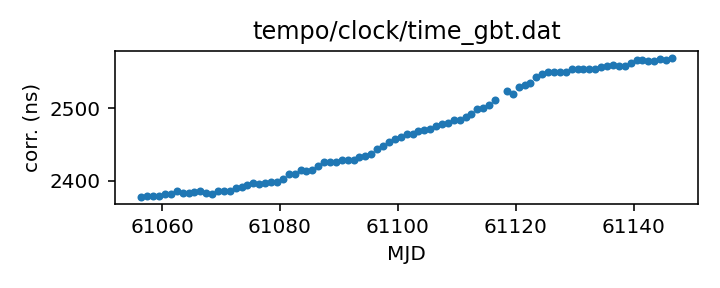
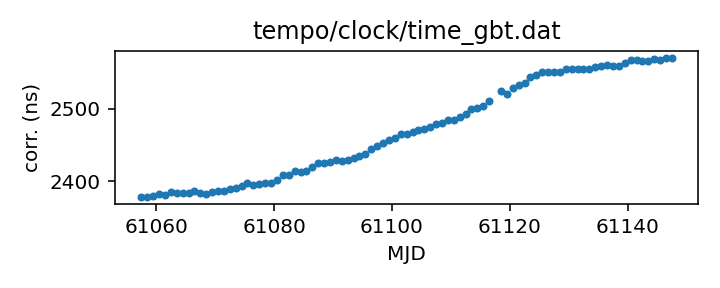
Routine gh-pages update from Github action Sat Apr 18 21:02:26 UTC 2026

diff --git a/status.md b/status.md
@@ -13,18 +13,18 @@ name of each clock file links to a page with more details.
 
 | Name | File | Corrections start | Corrections end | Last check date | Last check result 
 |:--- |:--- | --- | --- | --- |:--- 
-| [GPS to UTC](T2runtime/clock/gps2utc.clk.html) | `T2runtime/clock/gps2utc.clk` | 1993-01-01 MJD 48988.0 | 2026-03-30 MJD 61129.0 | 2026-04-17 | Unchanged 
-| [GPS to UTC (Combined Clock)](T2runtime/clock/gps2utc_cc.clk.html) | `T2runtime/clock/gps2utc_cc.clk` | 1993-01-01 MJD 48988.0 | 2026-03-30 MJD 61129.0 | 2026-04-17 | Unchanged 
-| [GPS to UTC (Corrected)](T2runtime/clock/gps2utc_c0p.clk.html) | `T2runtime/clock/gps2utc_c0p.clk` | 2010-12-29 MJD 55559.0 | 2026-03-30 MJD 61129.0 | 2026-04-17 | Unchanged 
-| [GBT](tempo/clock/time_gbt.dat.html) | `tempo/clock/time_gbt.dat` | 2000-12-31 MJD 51909.5 | 2026-04-16 MJD 61146.5 | 2026-04-17 | Updated 
-| [GBT (TEMPO2 converted from TEMPO)](T2runtime/clock/gbt2gps.clk.html) | `T2runtime/clock/gbt2gps.clk` | 2000-12-31 MJD 51909.5 | 2024-05-18 MJD 60448.5 | 2026-04-17 | **Validation failed** 
+| [GPS to UTC](T2runtime/clock/gps2utc.clk.html) | `T2runtime/clock/gps2utc.clk` | 1993-01-01 MJD 48988.0 | 2026-03-30 MJD 61129.0 | 2026-04-18 | Unchanged 
+| [GPS to UTC (Combined Clock)](T2runtime/clock/gps2utc_cc.clk.html) | `T2runtime/clock/gps2utc_cc.clk` | 1993-01-01 MJD 48988.0 | 2026-03-30 MJD 61129.0 | 2026-04-18 | Unchanged 
+| [GPS to UTC (Corrected)](T2runtime/clock/gps2utc_c0p.clk.html) | `T2runtime/clock/gps2utc_c0p.clk` | 2010-12-29 MJD 55559.0 | 2026-03-30 MJD 61129.0 | 2026-04-18 | Unchanged 
+| [GBT](tempo/clock/time_gbt.dat.html) | `tempo/clock/time_gbt.dat` | 2000-12-31 MJD 51909.5 | 2026-04-17 MJD 61147.5 | 2026-04-18 | Updated 
+| [GBT (TEMPO2 converted from TEMPO)](T2runtime/clock/gbt2gps.clk.html) | `T2runtime/clock/gbt2gps.clk` | 2000-12-31 MJD 51909.5 | 2024-05-18 MJD 60448.5 | 2026-04-18 | **Validation failed** 
 | [Jodrell Bank](T2runtime/clock/jb2gps.clk.html) | `T2runtime/clock/jb2gps.clk` | 2006-10-13 MJD 54021.4 | 2025-11-28 MJD 61007.0 | 2026-04-13 | Unchanged 
 | [Jodrell Bank Roach](T2runtime/clock/jbroach2jb.clk.html) | `T2runtime/clock/jbroach2jb.clk` | 2006-10-13 MJD 54021.4 | 2018-03-20 MJD 58197.6 | 2026-04-17 | Unchanged 
 | [Jodrell Bank DFB](T2runtime/clock/jbdfb2jb.clk.html) | `T2runtime/clock/jbdfb2jb.clk` | 2006-10-13 MJD 54021.4 | 2021-02-22 MJD 59268.0 | 2026-04-17 | Unchanged 
 | [Meerkat (observatory)](T2runtime/clock/mk2utc_observatory.clk.html) | `T2runtime/clock/mk2utc_observatory.clk` | 2019-01-01 MJD 58484.0 | 2026-04-10 MJD 61141.0 | 2026-04-17 | Updated 
-| [Leap seconds](tempo/clock/leap.sec.html) | `tempo/clock/leap.sec` | 1972-07-01 MJD 41499.0 | 2017-01-01 MJD 57754.0 | 2026-04-17 | Unchanged 
-| [UT1 table](tempo/clock/ut1.dat.html) | `tempo/clock/ut1.dat` | 1973-01-02 MJD 41684.0 | 2027-04-24 MJD 61519.0 | 2026-04-17 | Unchanged 
-| [UT1 table](T2runtime/clock/ut1.dat.html) | `T2runtime/clock/ut1.dat` | 1973-01-02 MJD 41684.0 | 2027-04-24 MJD 61519.0 | 2026-04-17 | Unchanged 
+| [Leap seconds](tempo/clock/leap.sec.html) | `tempo/clock/leap.sec` | 1972-07-01 MJD 41499.0 | 2017-01-01 MJD 57754.0 | 2026-04-18 | Unchanged 
+| [UT1 table](tempo/clock/ut1.dat.html) | `tempo/clock/ut1.dat` | 1973-01-02 MJD 41684.0 | 2027-04-24 MJD 61519.0 | 2026-04-18 | Unchanged 
+| [UT1 table](T2runtime/clock/ut1.dat.html) | `T2runtime/clock/ut1.dat` | 1973-01-02 MJD 41684.0 | 2027-04-24 MJD 61519.0 | 2026-04-18 | Unchanged 
 
 
 

diff --git a/T2runtime/clock/gbt2gps.clk.md b/T2runtime/clock/gbt2gps.clk.md
@@ -25,12 +25,11 @@ If questions arise about the conversion, contact Anne Archibald
 | Clock file start | 2000-12-31 MJD 51909.5 |
 | Clock file end | 2024-05-18 MJD 60448.5 |
 | Update interval (days) | 1 |
-| Last update attempt | 2026-04-17 |
+| Last update attempt | 2026-04-18 |
 | Last update result | Validation failed |
 
 Log entries from the last few update attempts:
 ```
-2026-04-08 21:09:12.047 - Validation failed: New version of T2runtime/clock/gbt2gps.clk clock corrections differ from old version where they overlap in 11 places
 2026-04-09 21:09:37.006 - Validation failed: New version of T2runtime/clock/gbt2gps.clk clock corrections differ from old version where they overlap in 11 places
 2026-04-10 21:02:50.322 - Validation failed: New version of T2runtime/clock/gbt2gps.clk clock corrections differ from old version where they overlap in 11 places
 2026-04-11 20:58:11.156 - Validation failed: New version of T2runtime/clock/gbt2gps.clk clock corrections differ from old version where they overlap in 11 places
@@ -40,6 +39,7 @@ Log entries from the last few update attempts:
 2026-04-15 21:13:51.623 - Validation failed: New version of T2runtime/clock/gbt2gps.clk clock corrections differ from old version where they overlap in 11 places
 2026-04-16 21:10:18.745 - Validation failed: New version of T2runtime/clock/gbt2gps.clk clock corrections differ from old version where they overlap in 11 places
 2026-04-17 21:10:21.965 - Validation failed: New version of T2runtime/clock/gbt2gps.clk clock corrections differ from old version where they overlap in 11 places
+2026-04-18 21:02:03.507 - Validation failed: New version of T2runtime/clock/gbt2gps.clk clock corrections differ from old version where they overlap in 11 places
 ```
 [Full log](https://raw.githubusercontent.com/ipta/pulsar-clock-corrections/main/log/T2runtime/clock/gbt2gps.clk.log)
 

diff --git a/tempo/clock/time_gbt.dat.md b/tempo/clock/time_gbt.dat.md
@@ -36,14 +36,13 @@ If questions arise, contact Ryan S. Lynch <rlynch@nrao.edu>.
 | Format | tempo |
 | Bogus last correction | False |
 | Clock file start | 2000-12-31 MJD 51909.5 |
-| Clock file end | 2026-04-16 MJD 61146.5 |
+| Clock file end | 2026-04-17 MJD 61147.5 |
 | Update interval (days) | 1 |
-| Last update attempt | 2026-04-17 |
+| Last update attempt | 2026-04-18 |
 | Last update result | Updated |
 
 Log entries from the last few update attempts:
 ```
-2026-04-08 21:09:11.973 - Updated
 2026-04-09 21:09:36.941 - Updated
 2026-04-10 21:02:49.960 - Updated
 2026-04-11 20:58:11.090 - Updated
@@ -53,6 +52,7 @@ Log entries from the last few update attempts:
 2026-04-15 21:13:51.548 - Updated
 2026-04-16 21:10:18.680 - Updated
 2026-04-17 21:10:21.347 - Updated
+2026-04-18 21:02:03.430 - Updated
 ```
 [Full log](https://raw.githubusercontent.com/ipta/pulsar-clock-corrections/main/log/tempo/clock/time_gbt.dat.log)
 

diff --git a/T2runtime/clock/gps2utc_c0p.clk.md b/T2runtime/clock/gps2utc_c0p.clk.md
@@ -30,12 +30,11 @@ about the BIPM's published corrections, contact <tai@bipm.org>.
 | Clock file start | 2010-12-29 MJD 55559.0 |
 | Clock file end | 2026-03-30 MJD 61129.0 |
 | Update interval (days) | 1 |
-| Last update attempt | 2026-04-17 |
+| Last update attempt | 2026-04-18 |
 | Last update result | Unchanged |
 
 Log entries from the last few update attempts:
 ```
-2026-04-08 21:09:11.089 - Unchanged
 2026-04-09 21:09:36.473 - Unchanged
 2026-04-10 21:02:49.546 - Unchanged
 2026-04-11 20:58:10.641 - Unchanged
@@ -45,6 +44,7 @@ Log entries from the last few update attempts:
 2026-04-15 21:13:50.984 - Unchanged
 2026-04-16 21:10:18.195 - Unchanged
 2026-04-17 21:10:20.417 - Unchanged
+2026-04-18 21:02:02.932 - Unchanged
 ```
 [Full log](https://raw.githubusercontent.com/ipta/pulsar-clock-corrections/main/log/T2runtime/clock/gps2utc_c0p.clk.log)
 

diff --git a/T2runtime/clock/gps2utc_cc.clk.md b/T2runtime/clock/gps2utc_cc.clk.md
@@ -29,12 +29,11 @@ about the BIPM's published corrections, contact <tai@bipm.org>.
 | Clock file start | 1993-01-01 MJD 48988.0 |
 | Clock file end | 2026-03-30 MJD 61129.0 |
 | Update interval (days) | 1 |
-| Last update attempt | 2026-04-17 |
+| Last update attempt | 2026-04-18 |
 | Last update result | Unchanged |
 
 Log entries from the last few update attempts:
 ```
-2026-04-08 21:09:11.081 - Unchanged
 2026-04-09 21:09:36.466 - Unchanged
 2026-04-10 21:02:49.537 - Unchanged
 2026-04-11 20:58:10.634 - Unchanged
@@ -44,6 +43,7 @@ Log entries from the last few update attempts:
 2026-04-15 21:13:50.976 - Unchanged
 2026-04-16 21:10:18.188 - Unchanged
 2026-04-17 21:10:20.409 - Unchanged
+2026-04-18 21:02:02.924 - Unchanged
 ```
 [Full log](https://raw.githubusercontent.com/ipta/pulsar-clock-corrections/main/log/T2runtime/clock/gps2utc_cc.clk.log)
 

diff --git a/T2runtime/clock/gps2utc.clk.md b/T2runtime/clock/gps2utc.clk.md
@@ -32,12 +32,11 @@ about the BIPM's published corrections, contact <tai@bipm.org>.
 | Clock file start | 1993-01-01 MJD 48988.0 |
 | Clock file end | 2026-03-30 MJD 61129.0 |
 | Update interval (days) | 1 |
-| Last update attempt | 2026-04-17 |
+| Last update attempt | 2026-04-18 |
 | Last update result | Unchanged |
 
 Log entries from the last few update attempts:
 ```
-2026-04-08 21:09:11.059 - Unchanged
 2026-04-09 21:09:36.445 - Unchanged
 2026-04-10 21:02:49.515 - Unchanged
 2026-04-11 20:58:10.613 - Unchanged
@@ -47,6 +46,7 @@ Log entries from the last few update attempts:
 2026-04-15 21:13:50.954 - Unchanged
 2026-04-16 21:10:18.167 - Unchanged
 2026-04-17 21:10:20.387 - Unchanged
+2026-04-18 21:02:02.902 - Unchanged
 ```
 [Full log](https://raw.githubusercontent.com/ipta/pulsar-clock-corrections/main/log/T2runtime/clock/gps2utc.clk.log)
 

diff --git a/tempo/clock/leap.sec.md b/tempo/clock/leap.sec.md
@@ -21,12 +21,11 @@ If there are any questions, contact Anne Archibald
 | File start | 1972-07-01 MJD 41499.0 |
 | File end | 2017-01-01 MJD 57754.0 |
 | Update interval (days) | 0 |
-| Last update attempt | 2026-04-17 |
+| Last update attempt | 2026-04-18 |
 | Last update result | Unchanged |
 
 Log entries from the last few update attempts:
 ```
-2026-04-08 21:09:12.070 - Unchanged
 2026-04-09 21:09:37.027 - Unchanged
 2026-04-10 21:03:04.617 - Unchanged
 2026-04-11 20:58:11.177 - Unchanged
@@ -36,5 +35,6 @@ Log entries from the last few update attempts:
 2026-04-15 21:13:51.648 - Unchanged
 2026-04-16 21:10:18.766 - Unchanged
 2026-04-17 21:12:23.853 - Unchanged
+2026-04-18 21:02:03.533 - Unchanged
 ```
 [Full log](https://raw.githubusercontent.com/ipta/pulsar-clock-corrections/main/log/tempo/clock/leap.sec.log)

diff --git a/T2runtime/clock/ut1.dat.md b/T2runtime/clock/ut1.dat.md
@@ -30,12 +30,11 @@ If there are any questions, contact Anne Archibald
 | File start | 1973-01-02 MJD 41684.0 |
 | File end | 2027-04-24 MJD 61519.0 |
 | Update interval (days) | 0 |
-| Last update attempt | 2026-04-17 |
+| Last update attempt | 2026-04-18 |
 | Last update result | Unchanged |
 
 Log entries from the last few update attempts:
 ```
-2026-04-08 21:09:23.168 - Unchanged
 2026-04-09 21:09:44.769 - Updated
 2026-04-10 21:03:12.147 - Unchanged
 2026-04-11 20:58:18.743 - Unchanged
@@ -45,5 +44,6 @@ Log entries from the last few update attempts:
 2026-04-15 21:13:59.589 - Unchanged
 2026-04-16 21:10:26.916 - Updated
 2026-04-17 21:12:35.936 - Unchanged
+2026-04-18 21:02:11.445 - Unchanged
 ```
 [Full log](https://raw.githubusercontent.com/ipta/pulsar-clock-corrections/main/log/T2runtime/clock/ut1.dat.log)

diff --git a/tempo/clock/ut1.dat.md b/tempo/clock/ut1.dat.md
@@ -30,12 +30,11 @@ If there are any questions, contact Anne Archibald
 | File start | 1973-01-02 MJD 41684.0 |
 | File end | 2027-04-24 MJD 61519.0 |
 | Update interval (days) | 0 |
-| Last update attempt | 2026-04-17 |
+| Last update attempt | 2026-04-18 |
 | Last update result | Unchanged |
 
 Log entries from the last few update attempts:
 ```
-2026-04-08 21:09:23.123 - Unchanged
 2026-04-09 21:09:44.727 - Updated
 2026-04-10 21:03:12.098 - Unchanged
 2026-04-11 20:58:18.701 - Unchanged
@@ -45,5 +44,6 @@ Log entries from the last few update attempts:
 2026-04-15 21:13:59.542 - Unchanged
 2026-04-16 21:10:26.874 - Updated
 2026-04-17 21:12:35.886 - Unchanged
+2026-04-18 21:02:11.395 - Unchanged
 ```
 [Full log](https://raw.githubusercontent.com/ipta/pulsar-clock-corrections/main/log/tempo/clock/ut1.dat.log)
